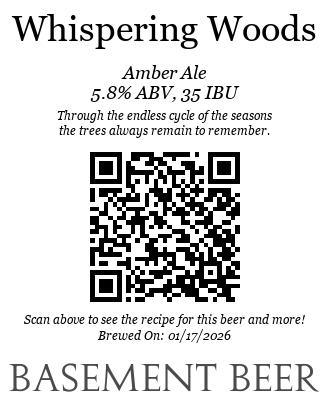
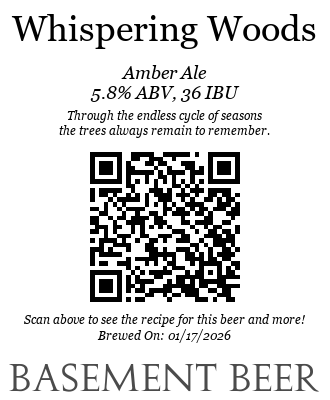
Updated WW and added Gold Nugget

Changed region(s): [[0.1818, 0.21, 0.8182, 0.3]]

diff --git a/qr_code_generator.py b/qr_code_generator.py
@@ -48,6 +48,6 @@ def make_label(output_file: str, name: str, style: str, abv: float, ibu: int, gu
     lbl.save(output_file)
 
 make_label(output_file="amber.png", name="Whispering Woods", style="Amber Ale", 
-           abv=5.8, ibu=35, guest_recipe=False, brew_date="01/17/2026",
-           flavor_text="Through the endless cycle of the seasons\nthe trees always remain to remember.",
+           abv=5.8, ibu=36, guest_recipe=False, brew_date="01/17/2026",
+           flavor_text="Through the endless cycle of seasons\nthe trees always remain to remember.",
            url="https://jlisenbee.github.io/LisenbeeCellars/#WhisperingWoods")
